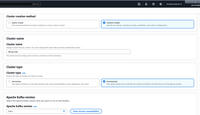
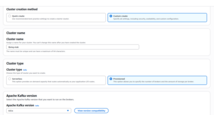
tbmq - aws installation guide msk 4.0.x

diff --git a/docs/mqtt-broker/install/cluster/aws-cluster-setup.md b/docs/mqtt-broker/install/cluster/aws-cluster-setup.md
@@ -150,7 +150,7 @@ You should see a screen similar to this:
 **Recommendations:**
 
 * **Cluster type**: Select **Provisioned** for full control over broker capacity and configuration.
-* **Kafka version**: Use **Apache Kafka 3.9.x** — this version has been fully validated with TBMQ.
+* **Kafka version**: Use **Apache Kafka 4.0.x** — this version has been fully validated with TBMQ.
 * **Metadata mode**: Choose **KRaft** (controller quorum) for simplified operations and improved resiliency compared to ZooKeeper.
 * **Instance type**: Start with **m7g.large** brokers (or equivalent) for a good balance of performance and cost; scale up later if required.
 * **Cluster configuration**: Create a **custom configuration** to simplify future parameter changes without needing to recreate the cluster.
